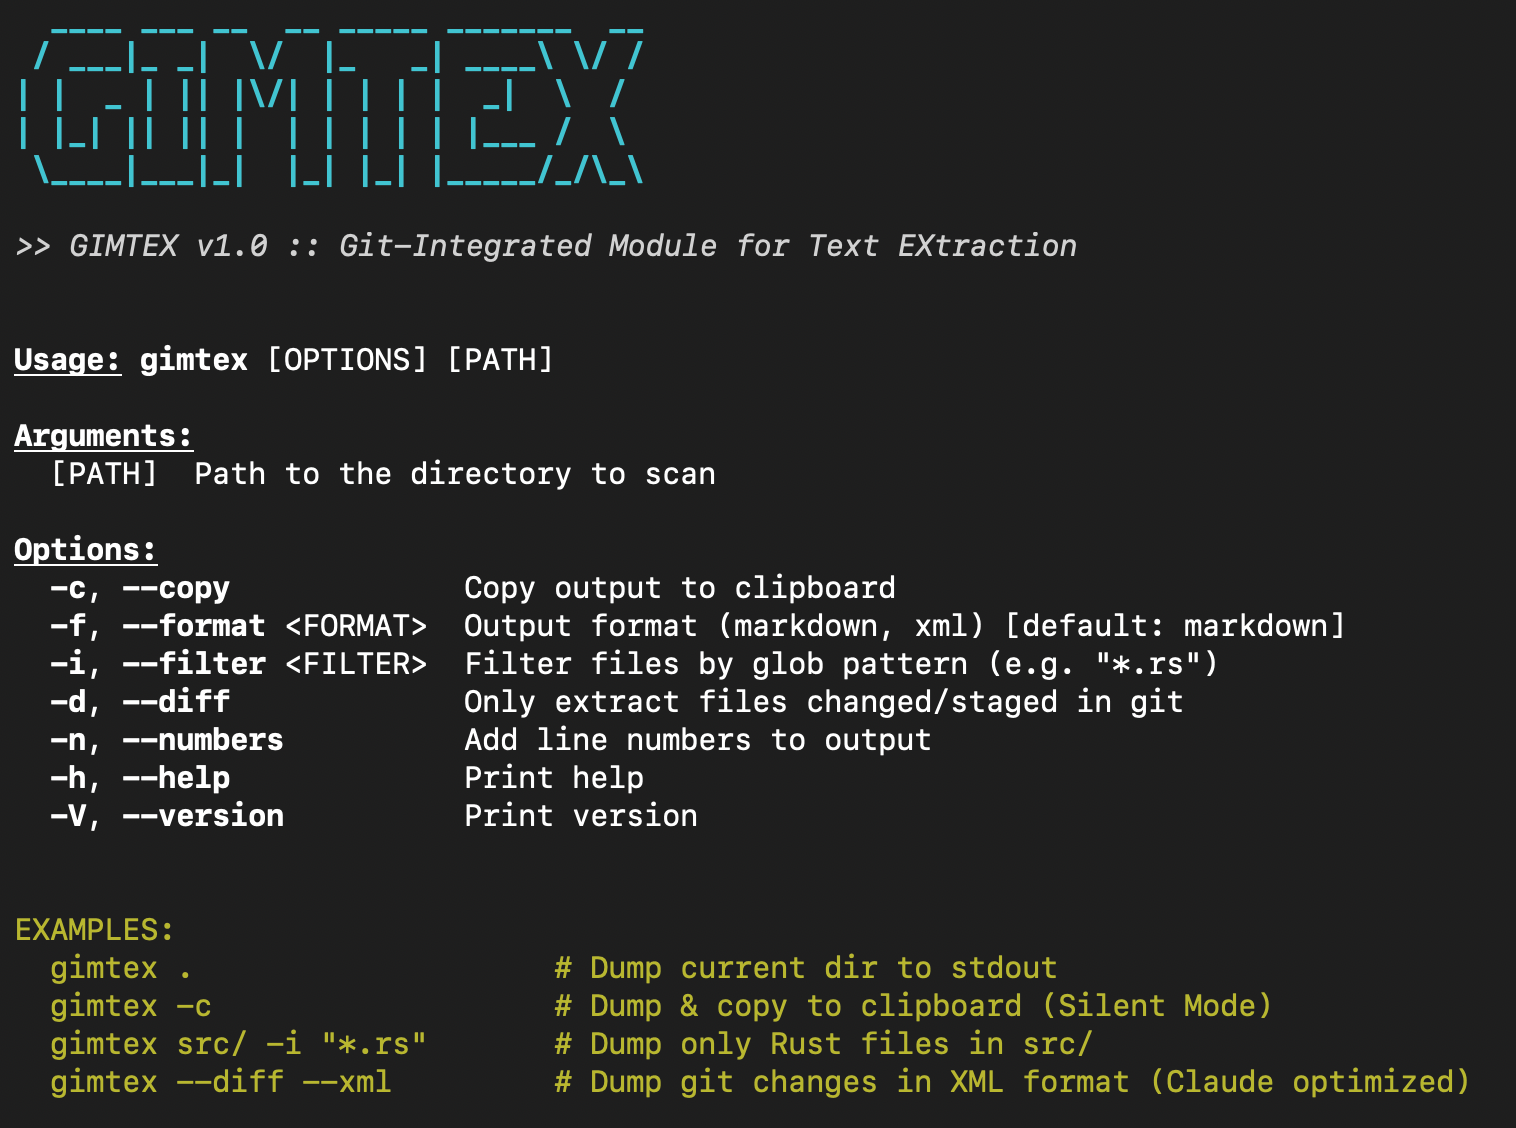
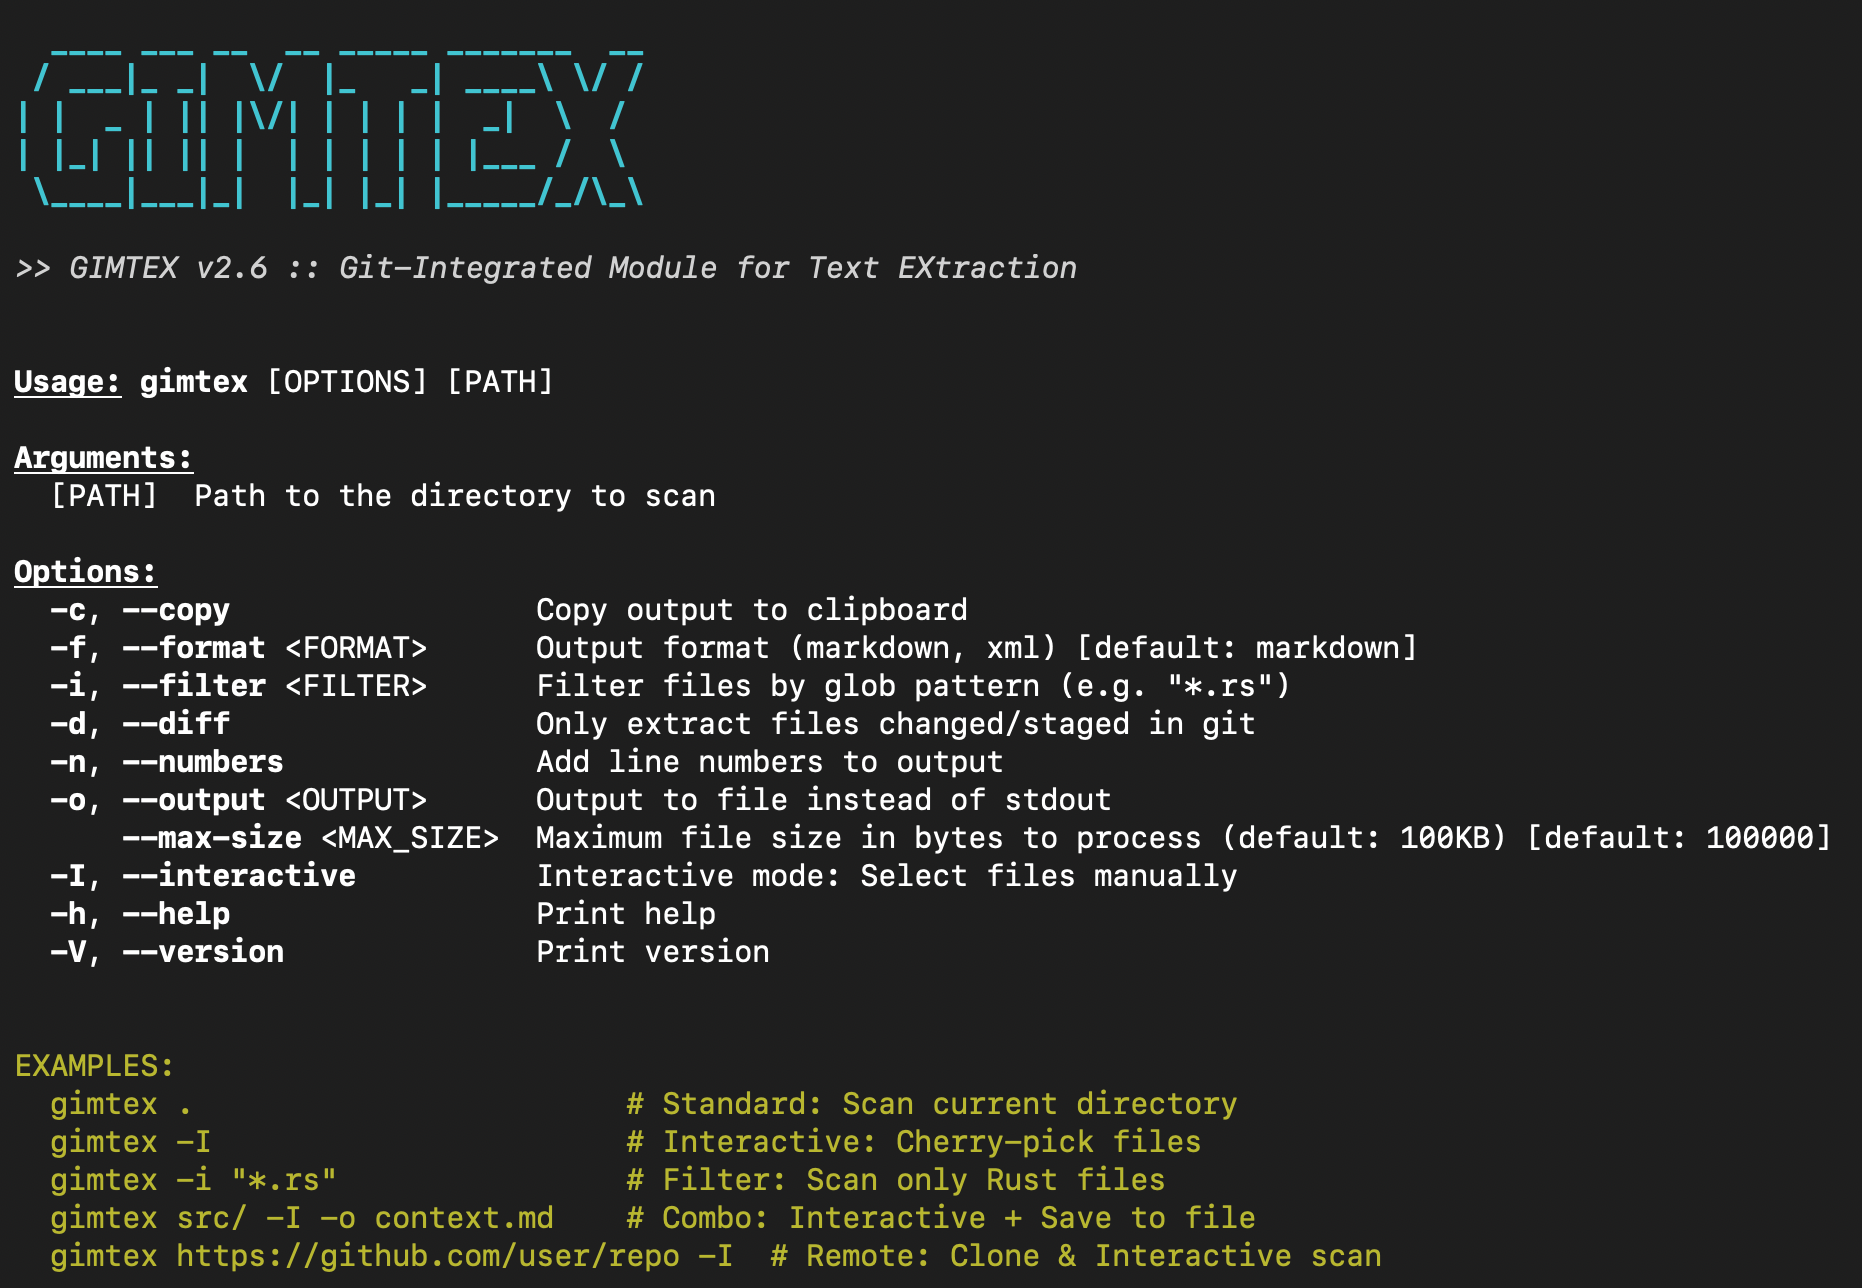
2.6.0

diff --git a/src/main.rs b/src/main.rs
@@ -19,11 +19,11 @@ const TAGLINE: &str = ">> GIMTEX v2.6 :: Git-Integrated Module for Text EXtracti
 
 const EXAMPLES: &str = "
 EXAMPLES:
-  gimtex .                          # Scan current dir
-  gimtex -c                         # Copy to clipboard
-  gimtex src/ -I -o content.md      # Interactive Mode + Save to file
-  gimtex https://github.com/user/repo -I  # Scan remote repo interactively
-  gimtex --max-size 500000          # Increase size limit to 500KB
+  gimtex .                        # Standard: Scan current directory
+  gimtex -I                       # Interactive: Cherry-pick files
+  gimtex -i \"*.rs\"                # Filter: Scan only Rust files
+  gimtex src/ -I -o context.md    # Combo: Interactive + Save to file
+  gimtex https://github.com/user/repo -I  # Remote: Clone & Interactive scan
 ";
 
 #[derive(Parser, Debug)]

diff --git a/README.md b/README.md
@@ -2,57 +2,136 @@
 
 <img src="assets/banner_shot.png" alt="GIMTEX Banner" width="600px">
 
-# GIMTEX (Git-Integrated Module for Text EXtraction)
+# GIMTEX
+### Git-Integrated Module for Text EXtraction
 
 ![Rust](https://img.shields.io/badge/language-Rust-orange?style=for-the-badge&logo=rust)
-![License](https://img.shields.io/badge/license-MIT-blue?style=for-the-badge)
+![Version](https://img.shields.io/badge/version-2.6.0-blue?style=for-the-badge)
+![License](https://img.shields.io/badge/license-MIT-green?style=for-the-badge)
 ![PRs Welcome](https://img.shields.io/badge/PRs-welcome-brightgreen?style=for-the-badge)
 
-> **A blazingly fast command-line utility to pack, filter, and sanitize codebases for Large Language Model (LLM) context.**
+> **"The Ultimate Bridge Between Code and AI."**
+> 
+> *Gimtex converts your entire project into a highly optimized, clean, and safe context payload for LLMs (ChatGPT, Claude, deepseek) in milliseconds.*
 
 </div>
 
 ---
 
-## The Why?
+## Why Gimtex?
 
-**Stop manually copy-pasting files to ChatGPT.**  
-Stop hitting token limits because you pasted `package-lock.json`.  
-Stop leaking your AWS keys in a rush to debug.
+Manually copy-pasting code files into ChatGPT is slow, error-prone, and leaks secrets.
+**Gimtex** solves this by automating the entire "Context Extraction" pipeline:
 
-**Gimtex** is the bridge between your local codebase and your AI assistant. It converts your project into a highly optimized, clean, and safe context payload in milliseconds.
+| Feature | Description |
+| :--- | :--- |
+| **Remote Scout** | Clone & scan **any public Git repo** URL directly without local clutter. |
+| **Interactive Mode** | **Cherry-pick** files via a TUI checkbox menu (`-I`) before generating context. |
+| **Active Defense** | Automatically **redacts API keys**, secrets, and passwords from the output. |
+| **Global IO** | Save context directly to a file (`-o context.md`) or copy to clipboard (`-c`). |
+| **Smart Pruning** | Hardcoded ignores for `node_modules`, `.git`, `target`, `dist`, etc. |
+| **Git Intelligence** | Use `--diff` to extract **only changed files** for targeted debugging. |
+| **Tokenomics** | Live **Token Counter** (GPT-4 optimized) for every file processed. |
+| **Blazingly Fast** | Written in **Rust** with **Rayon** parallel processing. Scans huge repos in ms. |
 
-### Scenarios
+---
 
-#### 1. The Standard Run
-Dump the entire project (respecting `.gitignore`) to stdout.
+## Installation
+
+### Via Cargo (Recommended)
+Ensure you have Rust installed, then run:
+
+```bash
+cargo install gimtex
+```
+
+*Verify installation:*
+```bash
+gimtex --version
+# gimtex 2.6.0
+```
+
+---
+
+## Usage Guide
+
+### 1. The "Standard" Scan
+Dump the current directory (recursively) to stdout. Respects `.gitignore`.
 ```bash
 gimtex .
 ```
 
-#### 2. The "Quick Fix"
-You broke the build. You just need the AI to see your recent changes.
+### 2. The "God Mode" (Interactive) or script kiddie mode
+Launch a Terminal UI to manually toggle which files you want to include.
 ```bash
-gimtex --diff --copy
+gimtex -I
 ```
 
-#### 3. The "Deep Dive"
-Debugging a specific module with line numbers for precise AI references.
+### 3. Remote Scout (GitHub/GitLab)
+Clone a remote repository to a temp folder, scan it, and print the context.
 ```bash
-gimtex src/scanner.rs --numbers --copy
+# Clone & Scan
+gimtex https://github.com/rust-lang/rust-by-example
+
+# Clone & Interactive Pick
+gimtex https://github.com/rust-lang/rust-by-example -I
 ```
 
-#### 4. The "Architect"
-Generating a massive context payload for Claude (XML format) to refactor the entire `src` folder.
+### 4. Output Management
+Stop piping to files manually. Use the built-in IO flags.
 ```bash
-gimtex src/ --format xml > context.xml
+# Save to file
+gimtex src/ -o context.md
+
+# Copy to System Clipboard
+gimtex src/ -c
 ```
 
-## Roadmap
+### 5. Precision & Safety
+```bash
+# Filter: Only scan Rust files
+gimtex -i "*.rs"
 
-- [ ] **Config File**: `.gimtexignore` or `.gimtex.toml` for persistent settings.
-- [ ] **Web Interface**: A localhost GUI for selecting files visually.
-- [ ] **Remote Repos**: `gimtex https://github.com/user/repo` support.
+# Diff: Only scan raw changes (Staged + Modified)
+gimtex --diff
+
+# Max Size: Increase limit to 500KB (Default 100KB)
+gimtex --max-size 500000
+
+# Numbers: Add line numbers for debugging references
+gimtex src/main.rs -n
+```
 
 ---
-*Built for the Age of AI.*
+
+## Configuration
+
+Gimtex is zero-config by default, but you can add a `gimtex.toml` to your project root for persistent settings.
+
+**gimtex.toml**
+```toml
+# Currently supported:
+ignore = [
+    "*.log",
+    "temp/",
+    "legacy_code/"
+]
+```
+
+*(More config options coming in v3.0)*
+
+---
+
+## Architecture
+
+- **Engine**: Rust (2021 Edition)
+- **Parallelism**: Rayon (Work-Stealing Iterator)
+- **Tokenizer**: `tiktoken-rs` (cl100k_base)
+- **Parser**: `syn` / `serde` / `toml` / `regex`
+- **UI**: `dialoguer` / `indicatif` / `colored`
+
+---
+
+## License
+
+This project is licensed under the MIT License - see the [LICENSE](LICENSE) file for details.
